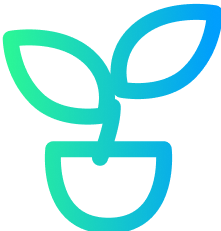
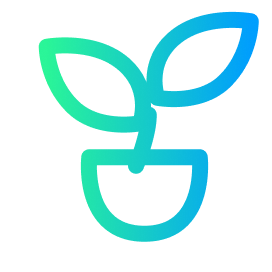
add the correct imgs for the tips and finish all of the tips

diff --git a/public/index.html b/public/index.html
@@ -85,6 +85,43 @@
                 </div>
             </div>
         </div>
+        <div class="care page">
+            <div class="care_leftPart">
+                <div class="care_title">How to care for plants</div>
+                <div class="care_subtitle">Take care of plants with all your heart</div>
+                <div class="care_tips">
+                    <div class="care_tip">
+                        <img class="care_tipIcon" src="./imgs/sun.png" alt="">
+                        <div class="care_tipText">
+                            <div class="care_tipTitle">Adjust Lighting</div>
+                            <div class="care_tipDescription">When caring for indoor plants, make sure the room temperature is neither too cold nor too hot</div>
+                        </div>
+                    </div>
+                    <div class="care_tip">
+                        <img class="care_tipIcon" src="./imgs/water.png" alt="">
+                        <div class="care_tipText">
+                            <div class="care_tipTitle">Don't water too often</div>
+                            <div class="care_tipDescription">Watering ornamental plants indoors does not have to be done every day.</div>
+                        </div>
+                    </div>
+                    <div class="care_tip">
+                        <img class="care_tipIcon" src="./imgs/plant.png" alt="">
+                        <div class="care_tipText">
+                            <div class="care_tipTitle">Provide good soil</div>
+                            <div class="care_tipDescription">Watering ornamental plants indoors does not have to be done every day.</div>
+                        </div>
+                    </div>
+                    <div class="care_tip">
+                        <img class="care_tipIcon" src="./imgs/thermometer.png" alt="">
+                        <div class="care_tipText">
+                            <div class="care_tipTitle">Fertilize regularly</div>
+                            <div class="care_tipDescription">The nutrients most indoor houseplants need are nitrogen for balance and potassium for stem strength</div>
+                        </div>
+                    </div>
+                </div>
+            </div>
+            <div class="care_rightPart"></div>
+        </div>
     </div>
 
 

diff --git a/public/style.scss b/public/style.scss
@@ -314,5 +314,50 @@
             }
         }
     }
+    .care{
+        width: 100%;
+        height: 100vh;
+        display: flex;
+        .care_leftPart{
+            .care_title{
+                color: #081323;
+                font-size: 48px;
+                font-weight: 500;
+            }
+            .care_subtitle{
+                color: #4F4F4F;
+                font-size: 16px;
+                font-weight: 400;
+                margin-bottom: 20px;
+            }
+            .care_tips{
+                margin-top: 20px;
+                .care_tip{
+                    width: 500px;
+                    display: flex;
+                    align-items: center;
+                    .care_tipIcon{
+                        width: 60px;
+                        height: 60px;
+                        margin-right: 15px;
+                    }
+                    .care_tipText{
+                        width: 470px;
+                        .care_tipTitle{
+                            font-size: 28px;
+                            color: #000;
+                            font-weight: 500;
+                        }
+                        .care_tipDescription{
+                            font-size: 16px;
+                            color: #4F4F4F;
+                            font-weight: 400;
+                        }
+                    }
+                }
+            }
+        }
+
+    }
 
 }

diff --git a/public/style.css b/public/style.css
@@ -317,4 +317,46 @@
   width: 600px;
   height: 100%;
   border-radius: 50px;
+}
+.wrap .care {
+  width: 100%;
+  height: 100vh;
+  display: flex;
+}
+.wrap .care .care_leftPart .care_title {
+  color: #081323;
+  font-size: 48px;
+  font-weight: 500;
+}
+.wrap .care .care_leftPart .care_subtitle {
+  color: #4F4F4F;
+  font-size: 16px;
+  font-weight: 400;
+  margin-bottom: 20px;
+}
+.wrap .care .care_leftPart .care_tips {
+  margin-top: 20px;
+}
+.wrap .care .care_leftPart .care_tips .care_tip {
+  width: 500px;
+  display: flex;
+  align-items: center;
+}
+.wrap .care .care_leftPart .care_tips .care_tip .care_tipIcon {
+  width: 60px;
+  height: 60px;
+  margin-right: 15px;
+}
+.wrap .care .care_leftPart .care_tips .care_tip .care_tipText {
+  width: 470px;
+}
+.wrap .care .care_leftPart .care_tips .care_tip .care_tipText .care_tipTitle {
+  font-size: 28px;
+  color: #000;
+  font-weight: 500;
+}
+.wrap .care .care_leftPart .care_tips .care_tip .care_tipText .care_tipDescription {
+  font-size: 16px;
+  color: #4F4F4F;
+  font-weight: 400;
 }/*# sourceMappingURL=style.css.map */
